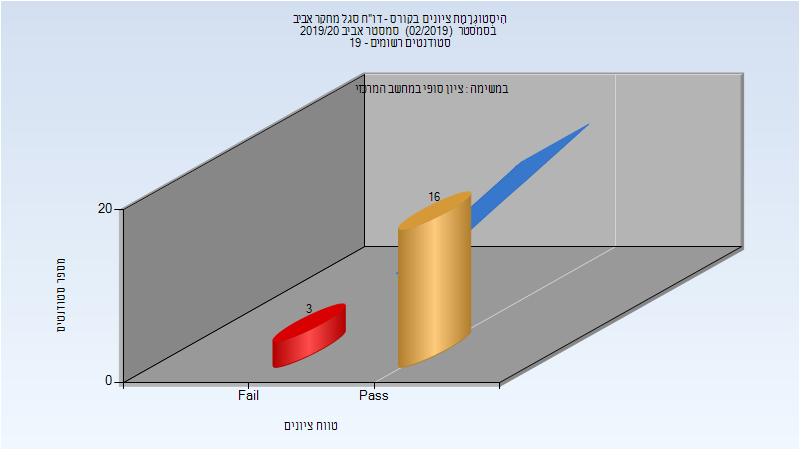
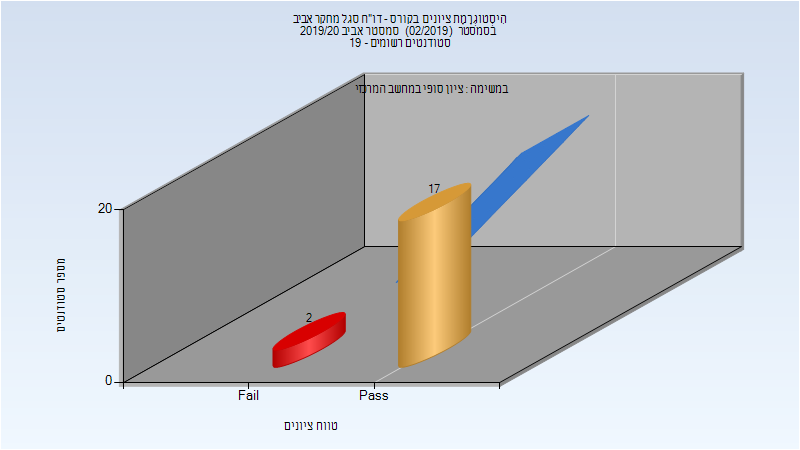
Deploy michael-maltsev/technion-histograms to github.com/michael-maltsev/technion-histograms.git:gh-pages

Changed region(s): [[0.5, 0.4044, 0.625, 0.5289], [0.625, 0.2489, 0.75, 0.4044], [0.3438, 0.6533, 0.4375, 0.7778]]

diff --git a/124801/index.html b/124801/index.html
@@ -398,6 +398,32 @@
 </thead>
 <tbody>
 <tr>
+<td>81</td>
+<td>80/1</td>
+<td>99</td>
+<td>40</td>
+<td>96</td>
+<td>76.506</td>
+<td>77</td>
+</tr>
+</tbody>
+</table>
+<h3>סופי</h3>
+<p><img src="201902/Finals.png" alt="201902 Finals" /></p>
+<table>
+<thead>
+<tr>
+<th>סטודנטים</th>
+<th>עברו/נכשלו</th>
+<th>אחוז עוברים</th>
+<th>ציון מינימלי</th>
+<th>ציון מקסימלי</th>
+<th>ממוצע</th>
+<th>חציון</th>
+</tr>
+</thead>
+<tbody>
+<tr>
 <td>80</td>
 <td>79/1</td>
 <td>99</td>

diff --git a/124801/README.md b/124801/README.md
@@ -124,5 +124,13 @@
 
 | סטודנטים | עברו/נכשלו | אחוז עוברים | ציון מינימלי | ציון מקסימלי | ממוצע | חציון |
 | ---- | ---- | ---- | ---- | ---- | ---- | ---- |
+| 81 | 80/1 | 99 | 40 | 96 | 76.506 | 77 |
+
+### סופי
+
+![201902 Finals](201902/Finals.png)
+
+| סטודנטים | עברו/נכשלו | אחוז עוברים | ציון מינימלי | ציון מקסימלי | ממוצע | חציון |
+| ---- | ---- | ---- | ---- | ---- | ---- | ---- |
 | 80 | 79/1 | 99 | 40 | 96 | 76.612 | 77.5 |
 
